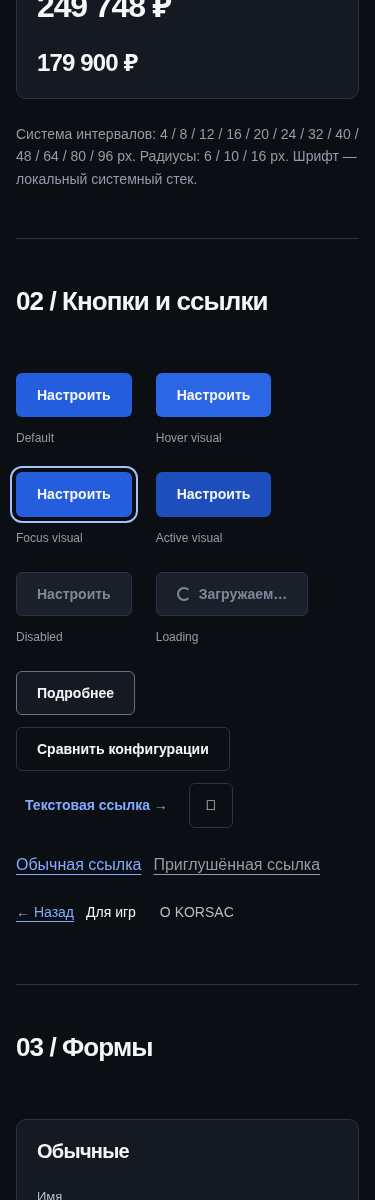
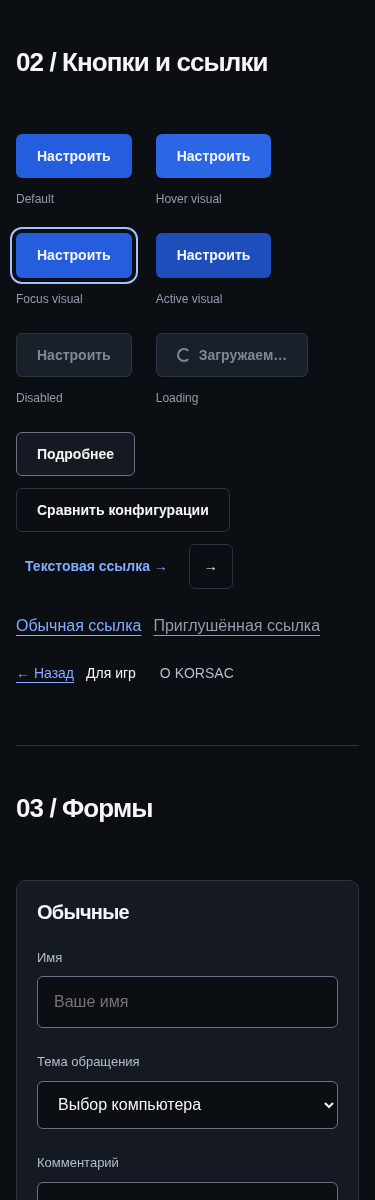
Use system-supported arrows in prototype navigation

diff --git a/prototype/index.html b/prototype/index.html
@@ -84,11 +84,11 @@
         <div class="k-grid">
           <a class="k-panel k-index-card" href="ui.html"
             ><span class="k-eyebrow">01 / Система</span>
-            <h2>UI Kit ↗</h2>
+            <h2>UI Kit →</h2>
             <p class="k-muted">Токены, компоненты и состояния интерфейса.</p></a
           ><a class="k-panel k-index-card" href="product.html"
             ><span class="k-eyebrow">02 / Продукт</span>
-            <h2>PLAY 1440 ↗</h2>
+            <h2>PLAY 1440 →</h2>
             <p class="k-muted">
               Сценарий, контролируемая настройка и подача продукта.
             </p></a

diff --git a/prototype/ui.html b/prototype/ui.html
@@ -201,7 +201,7 @@
               data-dialog-open="scope-dialog"
               aria-label="Открыть информацию"
             >
-              ↗
+              →
             </button>
           </div>
           <div class="k-cluster">
